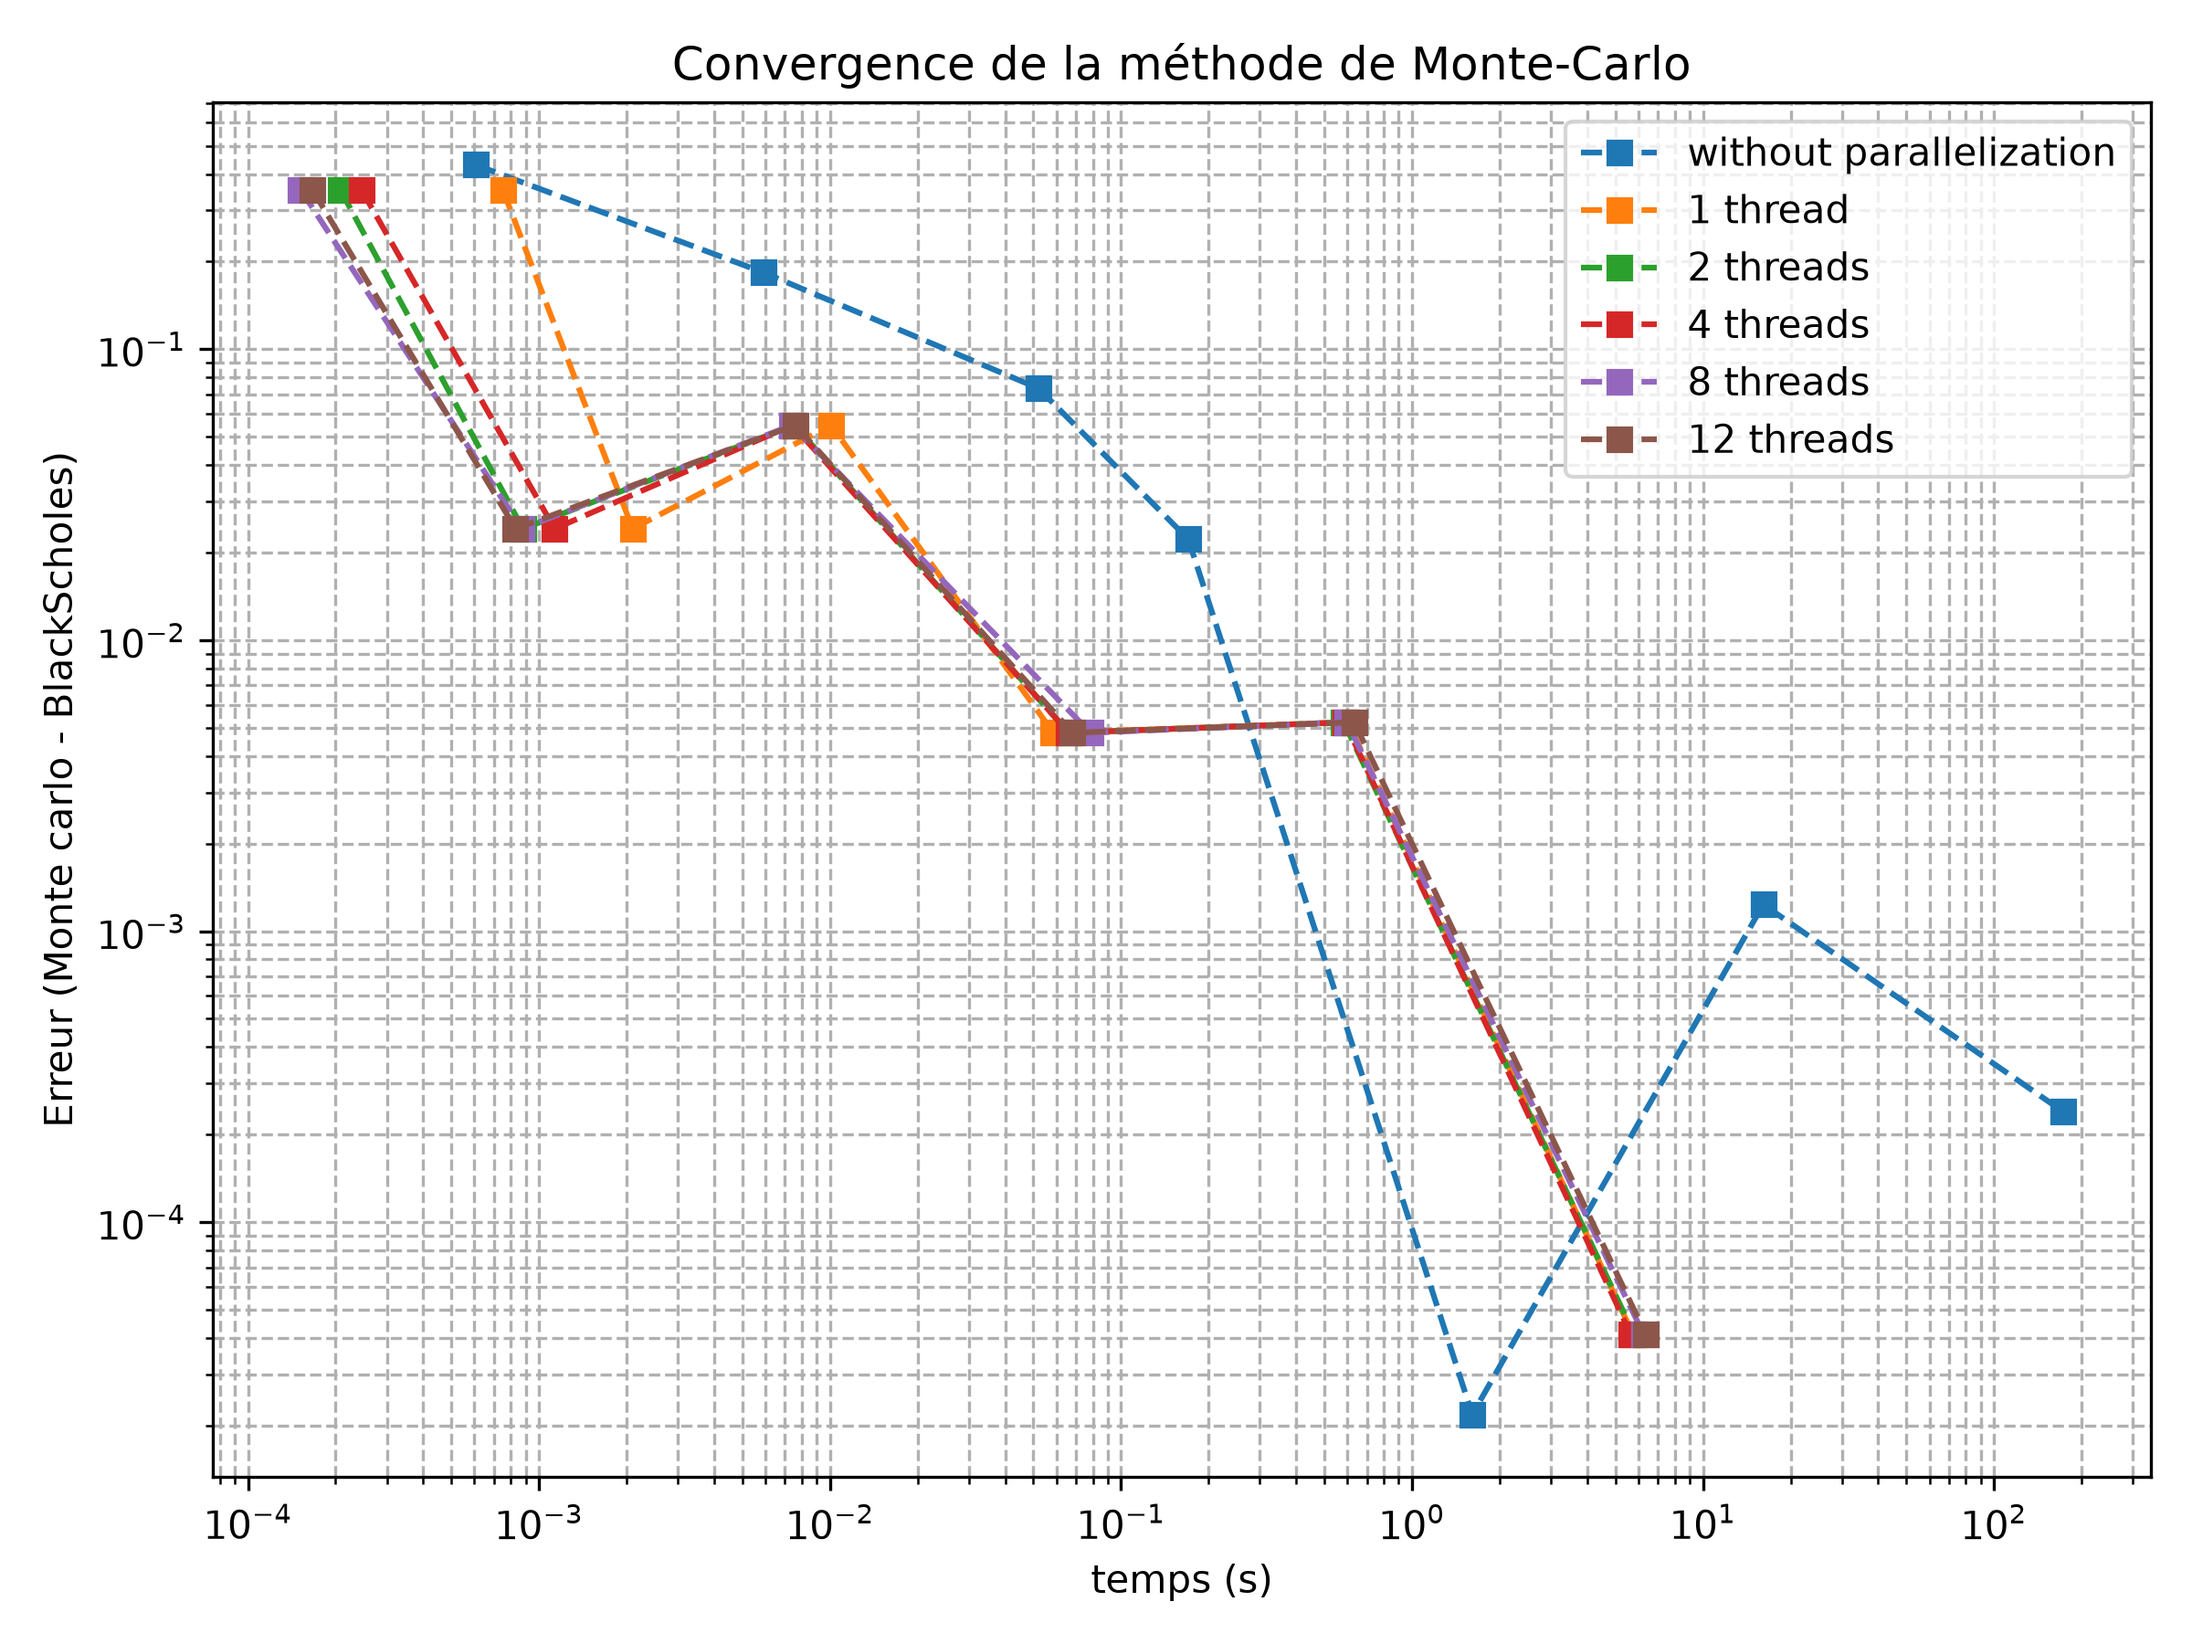
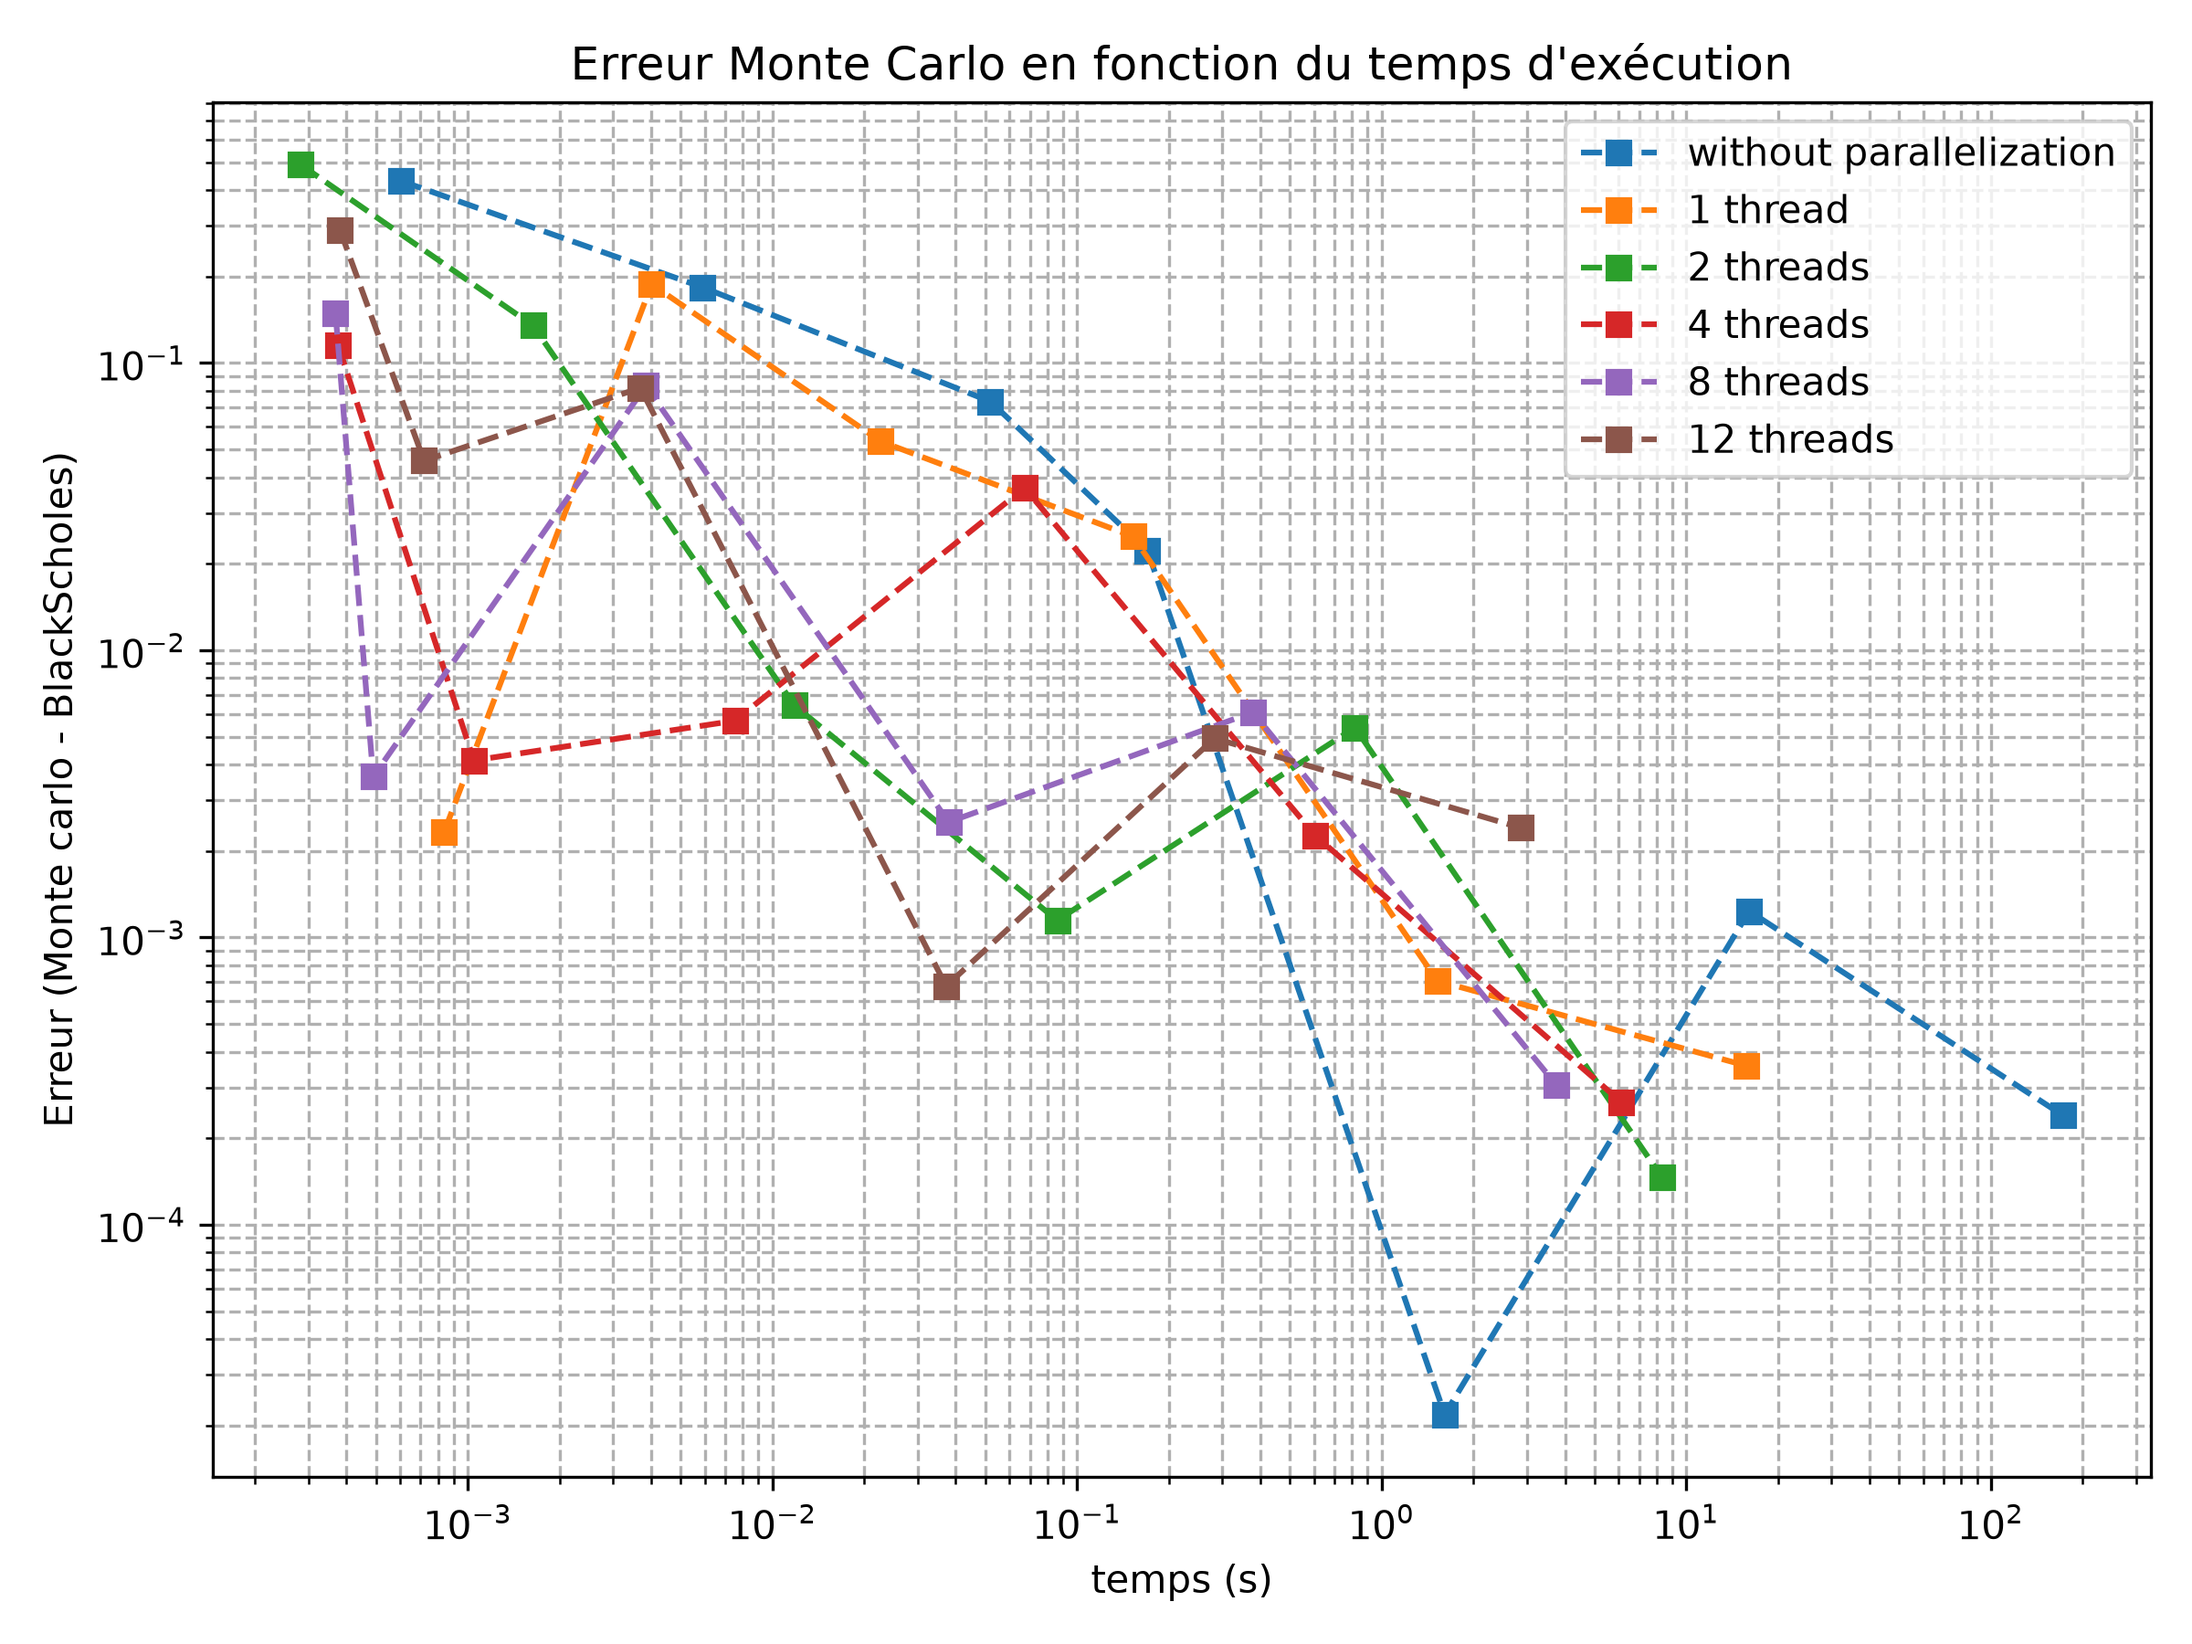
Fixing an error in src/parallel/convergence.cpp and adding random generation, then regenerating the plots

Changed region(s): [[0.0312, 0.0311, 1.0, 0.9333], [0.0938, 0.8711, 0.125, 0.9333], [0.9062, 0.9022, 0.9375, 0.9333]]

diff --git a/plots/parallel.py b/plots/parallel.py
@@ -20,10 +20,31 @@ ax.loglog(df_12["time"], df_12["error"], marker="s", linestyle="--", label="12 t
 
 ax.set_xlabel("temps (s)")
 ax.set_ylabel("Erreur (Monte carlo - BlackScholes)")
-ax.set_title("Convergence de la méthode de Monte-Carlo")
+ax.set_title("Erreur Monte Carlo en fonction du temps d'exécution")
 ax.legend()
 ax.grid(True, which="both", ls="--")
 
 plt.tight_layout()
 plt.savefig("monte_carlo_convergence_parallel.png", dpi=300)
 print("Graphique sauvegardé avec succès sous : monte_carlo_convergence_parallel.png")
+
+# Error for M
+fig, ax = plt.subplots(figsize=(8, 6))
+
+ax.loglog(df["M"], df["error"], marker="s", linestyle="--", label="without parallelization")
+ax.loglog(df_1["M"], df_1["error"], marker="s", linestyle="--", label="1 thread")
+ax.loglog(df_2["M"], df_2["error"], marker="s", linestyle="--", label="2 threads")
+ax.loglog(df_4["M"], df_4["error"], marker="s", linestyle="--", label="4 threads")
+ax.loglog(df_8["M"], df_8["error"], marker="s", linestyle="--", label="8 threads")
+ax.loglog(df_12["M"], df_12["error"], marker="s", linestyle="--", label="12 threads")
+
+
+ax.set_xlabel("Number of Simulations (M)")
+ax.set_ylabel("Erreur (Monte carlo - BlackScholes)")
+ax.set_title("Convergence Monte Carlo parallèlisé")
+ax.legend()
+ax.grid(True, which="both", ls="--")
+
+plt.tight_layout()
+plt.savefig("monte_carlo_convergence_multiple_threads.png", dpi=300)
+print("Graphique sauvegardé avec succès sous : monte_carlo_convergence_multiple_threads.png")

diff --git a/benchmarks/parallel/convergence.cpp b/benchmarks/parallel/convergence.cpp
@@ -16,9 +16,13 @@
 #include <cmath>
 #include <string>
 #include <fstream>
+#include <random>
 
 
 int main() {
+
+    std::random_device rd;
+    
     parameters par = {100.0L, 100.0L, 0.05L, 0.2L, 1.0L};
     Option option(par, typeoption::CALL);
 
@@ -36,14 +40,14 @@ int main() {
 
         file << "thread,M,price,standard_error,error,ci_low,ci_high,time\n";
 
-        const uint64_t seed = 42;
+        const uint64_t seed = rd();
 
         std::cout << std::fixed << std::setprecision(10);
 
         for (int M : simulations) {
 
             auto start = std::chrono::high_resolution_clock::now();
-            MonteCarloResult result = MonteCarloParallel::price(option, M, seed, 4);
+            MonteCarloResult result = MonteCarloParallel::price(option, M, seed, i);
             auto end = std::chrono::high_resolution_clock::now();
 
             std::chrono::duration<double> elapsed = end - start;

diff --git a/plots/convergence.py b/plots/convergence.py
@@ -61,3 +61,6 @@ ax.grid(True, which="both", ls="--")
 plt.tight_layout()
 plt.savefig("crr_vs_mc.png", dpi=300)
 print("Graphique sauvegardé avec succès sous : crr_vs_mc.png")
+
+
+
